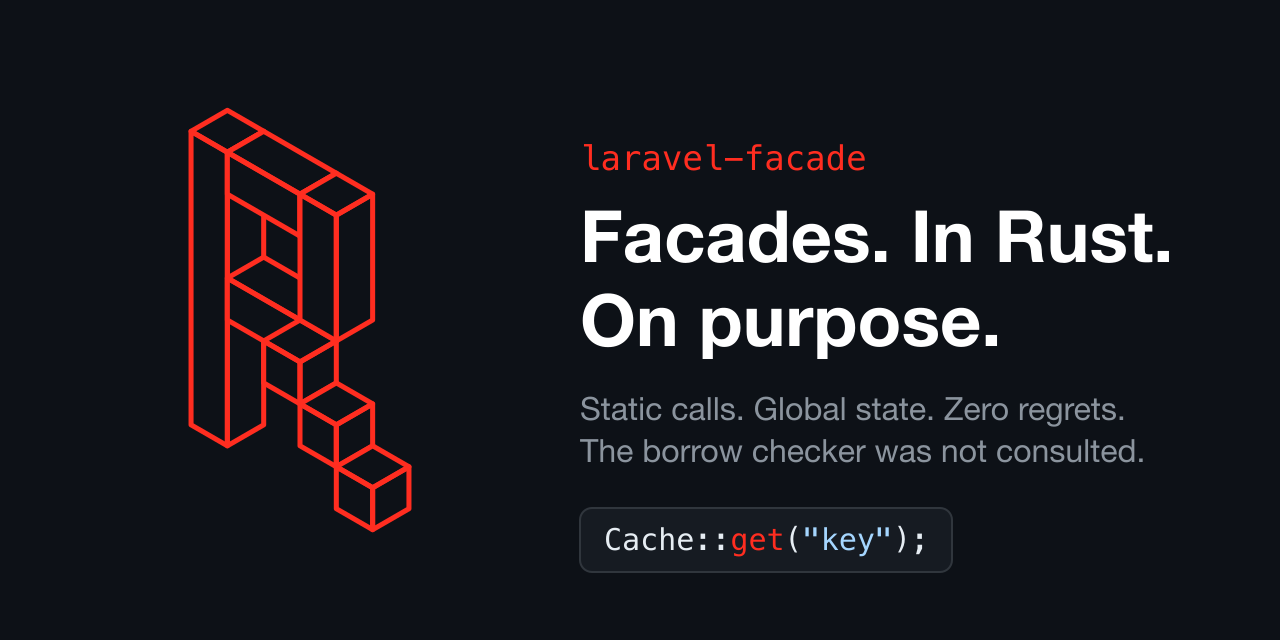
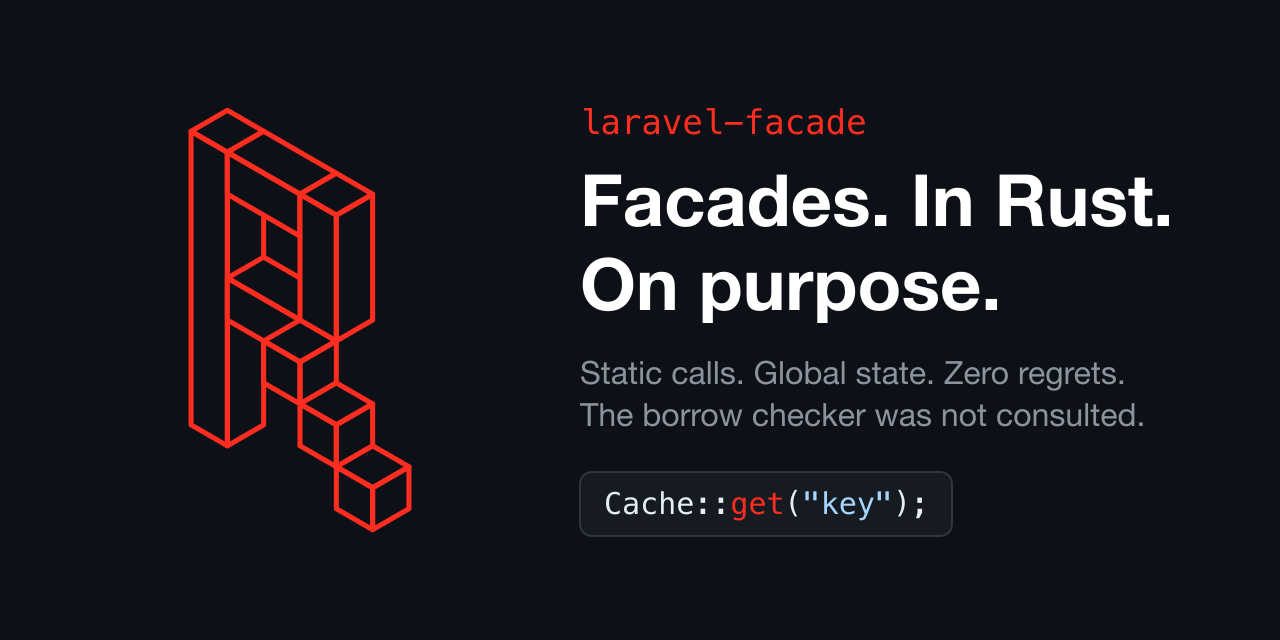
Center the social preview text vertically
The text block sat about 36px below the middle. Both halves are now
centered on the card.

Changed region(s): [[0.4375, 0.1562, 0.9375, 0.875]]

diff --git a/assets/generate_social.py b/assets/generate_social.py
@@ -23,7 +23,8 @@ MONO = "Menlo, SF Mono, Consolas, monospace"
 svg = f'''<svg xmlns="http://www.w3.org/2000/svg" viewBox="0 0 {W} {H}" width="{W}" height="{H}">
 <rect width="{W}" height="{H}" fill="#0d1117"/>
 <svg x="40" y="60" width="520" height="520" viewBox="{view_box}">{inner}</svg>
-<g font-family="{SANS}">
+<!-- Shifted so the text block is centered vertically, like the logo. -->
+<g font-family="{SANS}" transform="translate(0 -36)">
   <text x="580" y="170" font-family="{MONO}" font-size="34" fill="{RED}">laravel-facade</text>
   <text x="580" y="262" font-size="72" font-weight="bold" fill="#ffffff">Facades. In Rust.</text>
   <text x="580" y="346" font-size="72" font-weight="bold" fill="#ffffff">On purpose.</text>
